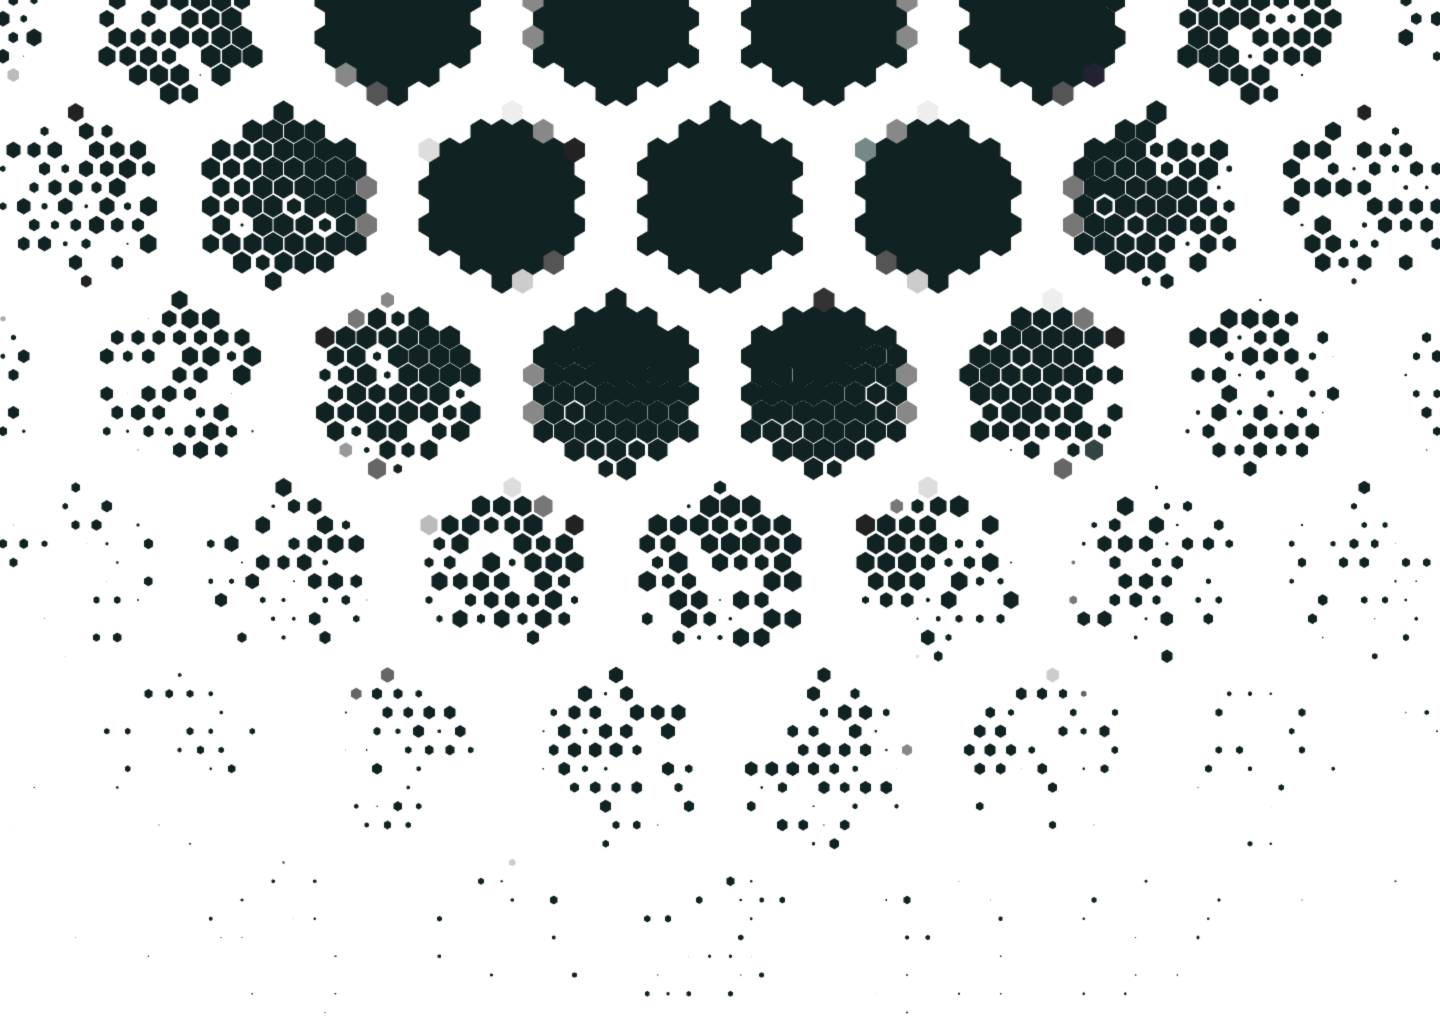
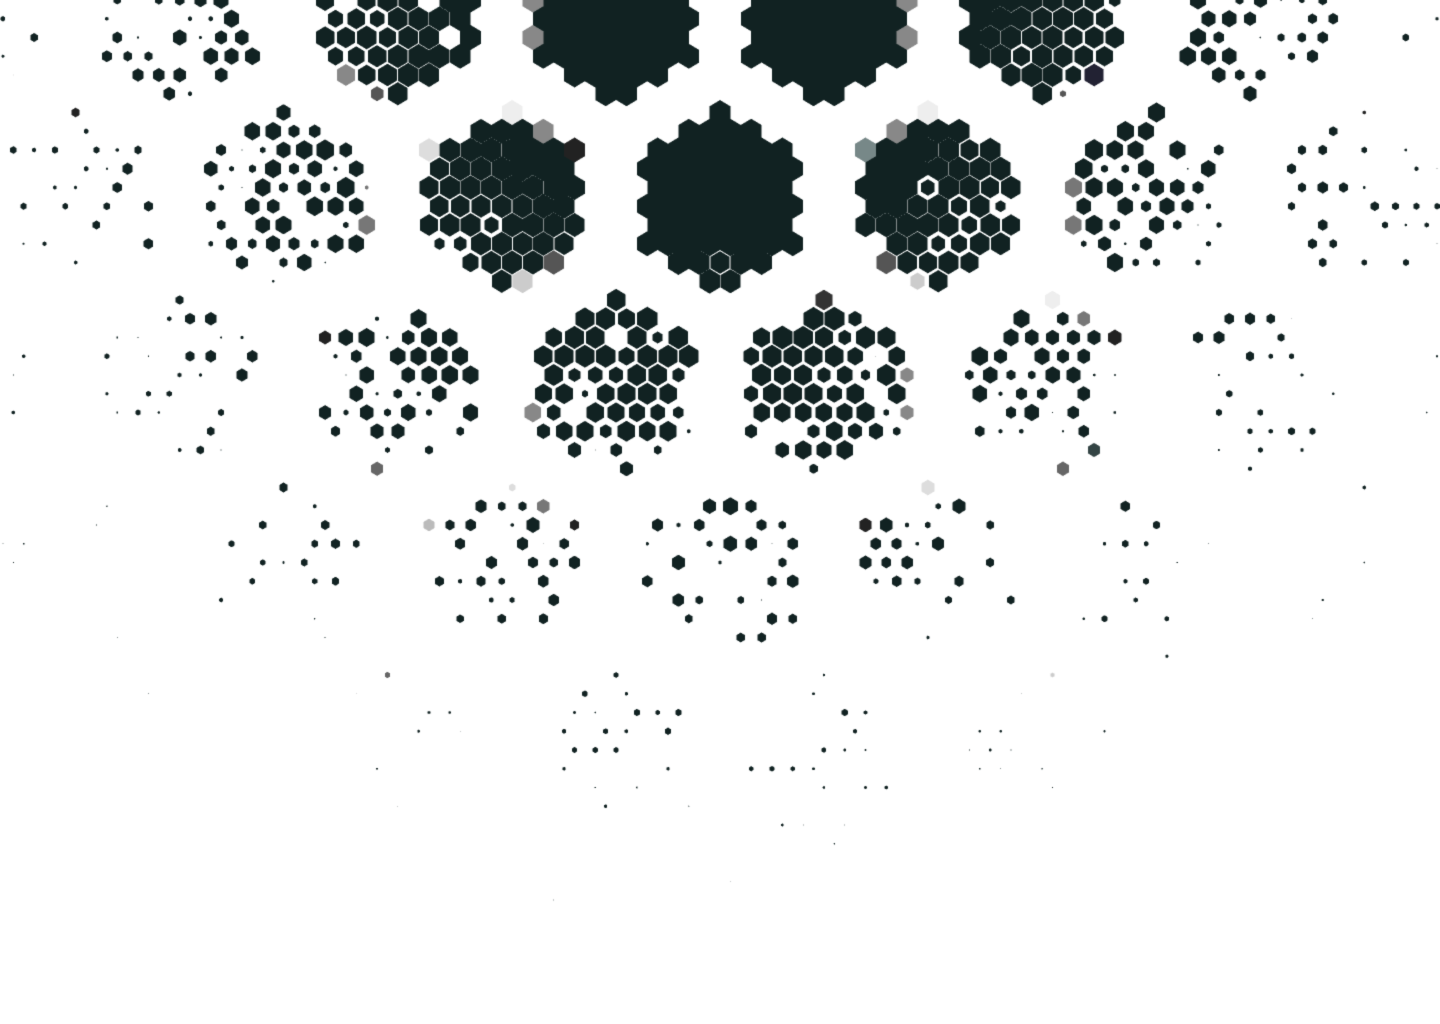
Fix footer links

diff --git a/_layouts/home.html b/_layouts/home.html
@@ -53,7 +53,6 @@ layout: default
 <section id="audience" class="c-section c-section--marble c-section--paper">
   <div class="c-container">
 
-
     <div class="c-stack">
       <p class="technical text-t">Who This Is For</p>
       <h2 class="authority">If any of this sounds like you, you're in the right place.</h2>
@@ -95,16 +94,6 @@ layout: default
       </header>
     </div>
 
-    <div class="carousel-controls">
-      <button class="carousel-btn carousel-btn--prev" type="button" aria-label="Previous testimonial">
-        <i class="ph ph-fill ph-arrow-fat-line-left" aria-hidden="true"></i>
-      </button>
-      <span class="carousel-count">1 / {{ technology_testimonials.size }}</span>
-      <button class="carousel-btn carousel-btn--next" type="button" aria-label="Next testimonial">
-        <i class="ph ph-fill ph-arrow-fat-line-right" aria-hidden="true"></i>
-      </button>
-    </div>
-
     <div class="carousel carousel--testimonials" aria-live="polite" aria-label="Testimonials">
       <div class="carousel-track">
         {% for ref in technology_testimonials %}
@@ -128,6 +117,16 @@ layout: default
         aria-selected="{% if forloop.first %}true{% else %}false{% endif %}"
         aria-label="Testimonial {{ forloop.index }}"></button>
       {% endfor %}
+    </div>
+
+    <div class="carousel-controls">
+      <button class="carousel-btn carousel-btn--prev" type="button" aria-label="Previous testimonial">
+        <i class="ph ph-fill ph-arrow-fat-line-left" aria-hidden="true"></i>
+      </button>
+      <span class="carousel-count">1 / {{ technology_testimonials.size }}</span>
+      <button class="carousel-btn carousel-btn--next" type="button" aria-label="Next testimonial">
+        <i class="ph ph-fill ph-arrow-fat-line-right" aria-hidden="true"></i>
+      </button>
     </div>
   </div>
 </section>

diff --git a/_sass/components/_carousel.scss b/_sass/components/_carousel.scss
@@ -37,6 +37,7 @@
 .carousel-controls {
   display: flex;
   align-items: center;
+  justify-content: center;
   gap: var(--md-sys-spacing-sm);
 }
 
@@ -53,7 +54,7 @@
   display: inline-grid;
   place-items: center;
   border: var(--site-border-width) solid var(--md-sys-color-outline);
-  background: var(--md-sys-color-surface-variant);
+  background-color: var(--md-sys-color-surface-variant);
   color: var(--md-sys-color-on-surface);
   cursor: pointer;
 
@@ -91,7 +92,7 @@
   justify-content: center;
   align-items: center;
   gap: var(--md-sys-spacing-sm);
-  margin-top: var(--md-sys-spacing-md);
+  margin: var(--md-sys-spacing-md);
 }
 
 @media (max-width: 48rem) {

diff --git a/_sass/components/_card.scss b/_sass/components/_card.scss
@@ -620,14 +620,6 @@
 .values-card {
   /* Card containers are NOT clickable - only internal links interact */
   text-decoration: none;
-  transition:
-    background-color var(--site-motion-interaction-duration) var(--site-motion-easing-standard),
-    border-color var(--site-motion-interaction-duration) var(--site-motion-easing-standard);
-
-  &:hover {
-    background-color: var(--site-card-hover-surface);
-    border-color: var(--site-card-hover-border);
-  }
 }
 
 /* Individual links inside cards maintain pointer behavior */

diff --git a/_sass/components/_footer.scss b/_sass/components/_footer.scss
@@ -105,7 +105,6 @@
     transform var(--site-motion-interaction-duration) var(--site-motion-easing-standard);
 
   &:hover {
-    transform: translateY(calc(-1 * var(--site-card-hover-distance)));
     border-color: var(--p-color-black);
     background-color: var(--p-color-white);
     color: var(--p-color-black);

diff --git a/_sass/components/_nav.scss b/_sass/components/_nav.scss
@@ -125,7 +125,7 @@
 
   &[aria-current="page"],
   &[aria-current="location"] {
-    color: var(--p-void-900);
+    color: var(--p-color-white);
   }
 
   &:focus-visible {
